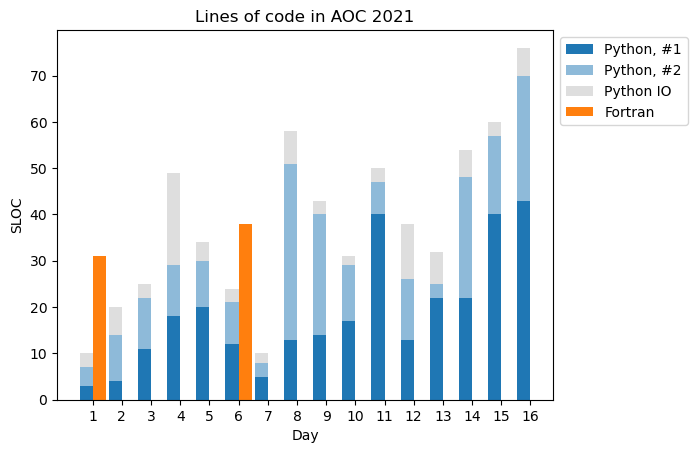
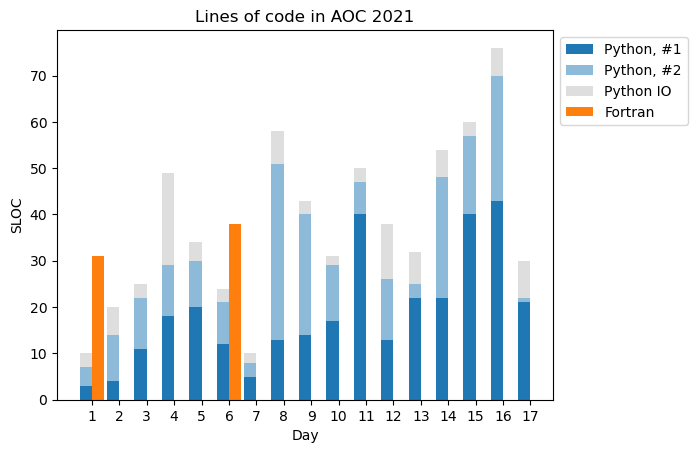
Day 17

Changed region(s): [[0.1205, 0.0927, 0.7834, 0.9272]]

diff --git a/17/day17.py b/17/day17.py
@@ -1,0 +1,52 @@
+#!/usr/bin/env python3
+# -*- coding: utf-8 -*-
+"""
+Created on Fri Dec 17 09:54:28 2021
+
+@author: podolnik
+"""
+
+import re
+
+with open('input.txt', mode = 'r') as f:
+    t = f.readline().strip()
+    m = re.match('^target area: x=([\-0-9]*)\.\.([\-0-9]*), y=([\-0-9]*)\.\.([\-0-9]*)$', t)
+    x_min = int(m[1])
+    x_max = int(m[2])
+    y_min = int(m[3])
+    y_max = int(m[4])
+
+# part 1
+
+def fire(v_x, v_y):
+    x, y = (0, 0)
+    
+    h_max = 0
+    
+    while True:
+        x += v_x
+        y += v_y
+        
+        v_x = max(v_x - 1, 0)
+        v_y = v_y - 1
+        
+        h_max = max(h_max, y)
+    
+        if x >= x_min and x <= x_max and y >= y_min and y <= y_max:
+            return h_max
+        elif x > x_max or y < y_min:
+            return None
+
+h_vals = []
+
+for v_x in range(500):
+    for v_y in range(-500,500):
+        h = fire(v_x, v_y)
+        if h is not None:
+            h_vals.append(((v_x, v_y), h))
+
+h_vals.sort(key=lambda h: h[1], reverse=True)
+print(h_vals[0])
+
+# part 2
+print(len(h_vals))
